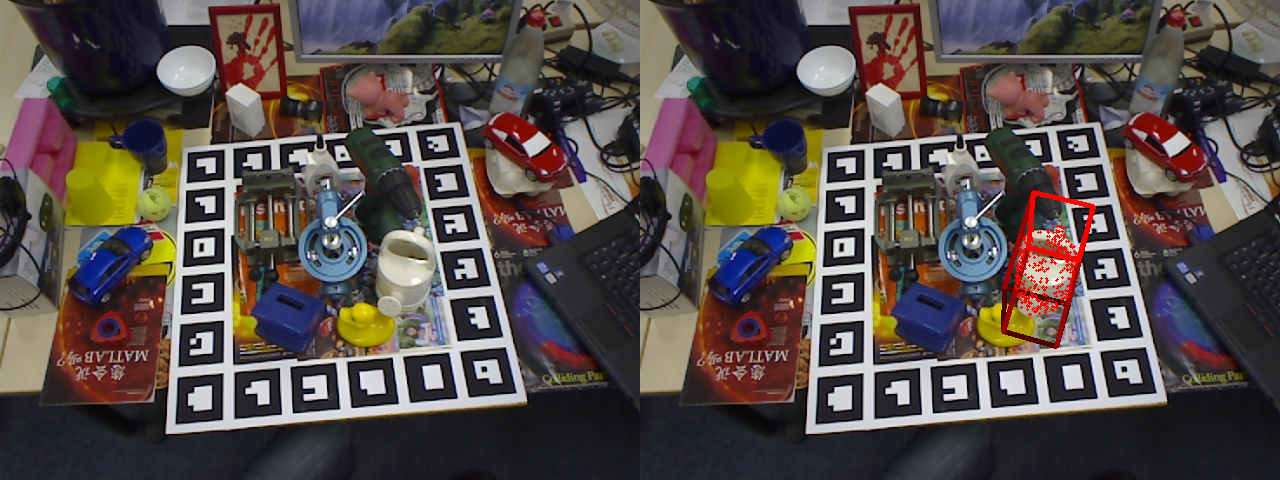
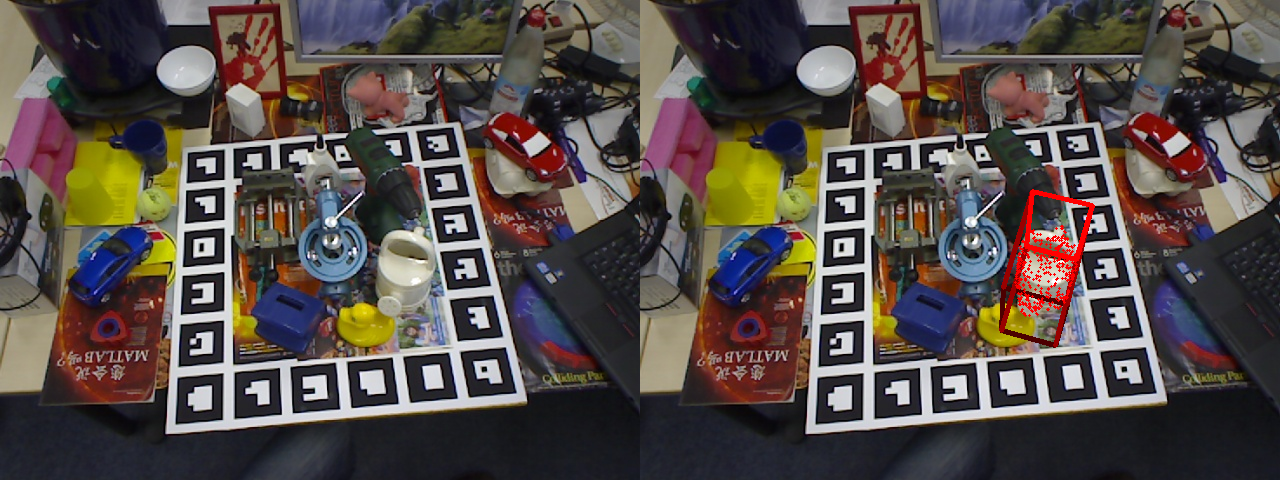
Refactor predict_pose endpoint to improve error handling and file processing; add inference execution and response management

Changed region(s): [[0.7812, 0.4062, 0.8438, 0.6875]]

diff --git a/scripts/server.py b/scripts/server.py
@@ -12,28 +12,56 @@ OUTPUT_DIR = os.path.join(BASE_DIR, "Data/Output")
 
 @app.route('/predict_pose', methods=['POST'])
 def predict_pose():
+    try:
+        # Receive the input data
+        rgb_input = request.files['rgb']
+        depth_input = request.files['depth']
+        camera_intrinsics = request.files['camera']
 
-    # Receive the input data
-    rgb_input = request.files['rgb']
-    depth_input = request.files['depth']
-    camera_intrinsics = request.files['camera']
+        # Overwrite the input files
+        rgb_input.save(os.path.join(DATA_DIR, "rgb.png"))
+        depth_input.save(os.path.join(DATA_DIR, "depth.png"))
+        camera_intrinsics.save(os.path.join(DATA_DIR, "camera.json"))
 
-    # Overwrite the input files
-    rgb_input.save(os.path.join(DATA_DIR, "rgb.png"))
-    depth_input.save(os.path.join(DATA_DIR, "depth.png"))
-    camera_intrinsics.save(os.path.join(DATA_DIR, "camera.json"))
+        print("Input files received and saved.")
 
-    print("Input files received and saved.")
+        # Trigger SAM-6D inference
+        # we will do it similar to running demo.sh through terminal
 
-    # Trigger SAM-6D inference
-    # we will do it similar to running demo.sh through terminal
+        env = os.environ.copy()
+        env["CAD_PATH"] = "Data/Input/Object.ply"
+        env["RGB_PATH"] = os.path.join(DATA_DIR, "rgb.png")
+        env["DEPTH_PATH"] = os.path.join(DATA_DIR, "depth.png")
+        env["CAMERA_PATH"] = os.path.join(DATA_DIR, "camera.json")
+        env["OUTPUT_PATH"] = OUTPUT_DIR
 
-    env = os.environ.copy()
-    env["CAD_PATH"] = "Data/Input/Object.ply"
-    env["RGB_PATH"] = os.path.join(DATA_DIR, "rgb.png")
-    env["DEPTH_PATH"] = os.path.join(DATA_DIR, "depth.png")
-    env["CAMERA_PATH"] = os.path.join(DATA_DIR, "camera.json")
-    env["OUTPUT_PATH"] = OUTPUT_DIR
+        process = subprocess.run(
+            ["python", "run_inference_custom.py"],
+            cwd=BASE_DIR,
+            env=env,
+            capture_output=True,
+            text=True
+        )
 
-    process
+        if process.returncode != 0:
+            print("Error during inference:")
+            print(process.stderr)
+            return jsonify({"error": "Inference failed", "details": process.stderr}), 500
 
+        output_file = os.path.join(OUTPUT_DIR, "prediction.json")
+
+        if os.path.exists(output_file):
+            with open(output_file, 'r') as f:
+                prediction = json.load(f)
+            return jsonify({"status": "success", "pose": prediction})
+        else:
+            return jsonify({
+                "status": "error",
+                "message": "Prediction file not found. Inference may have failed.",
+                "raw_log": process.stdout[-500:]  # Return the last 500 characters of the log for debugging
+            })
+    except Exception as e:
+        return jsonify({"status": "error", "message": str(e)}), 500
+
+if __name__ == '__main__':
+    app.run(host='0.0.0.0', port=5000)